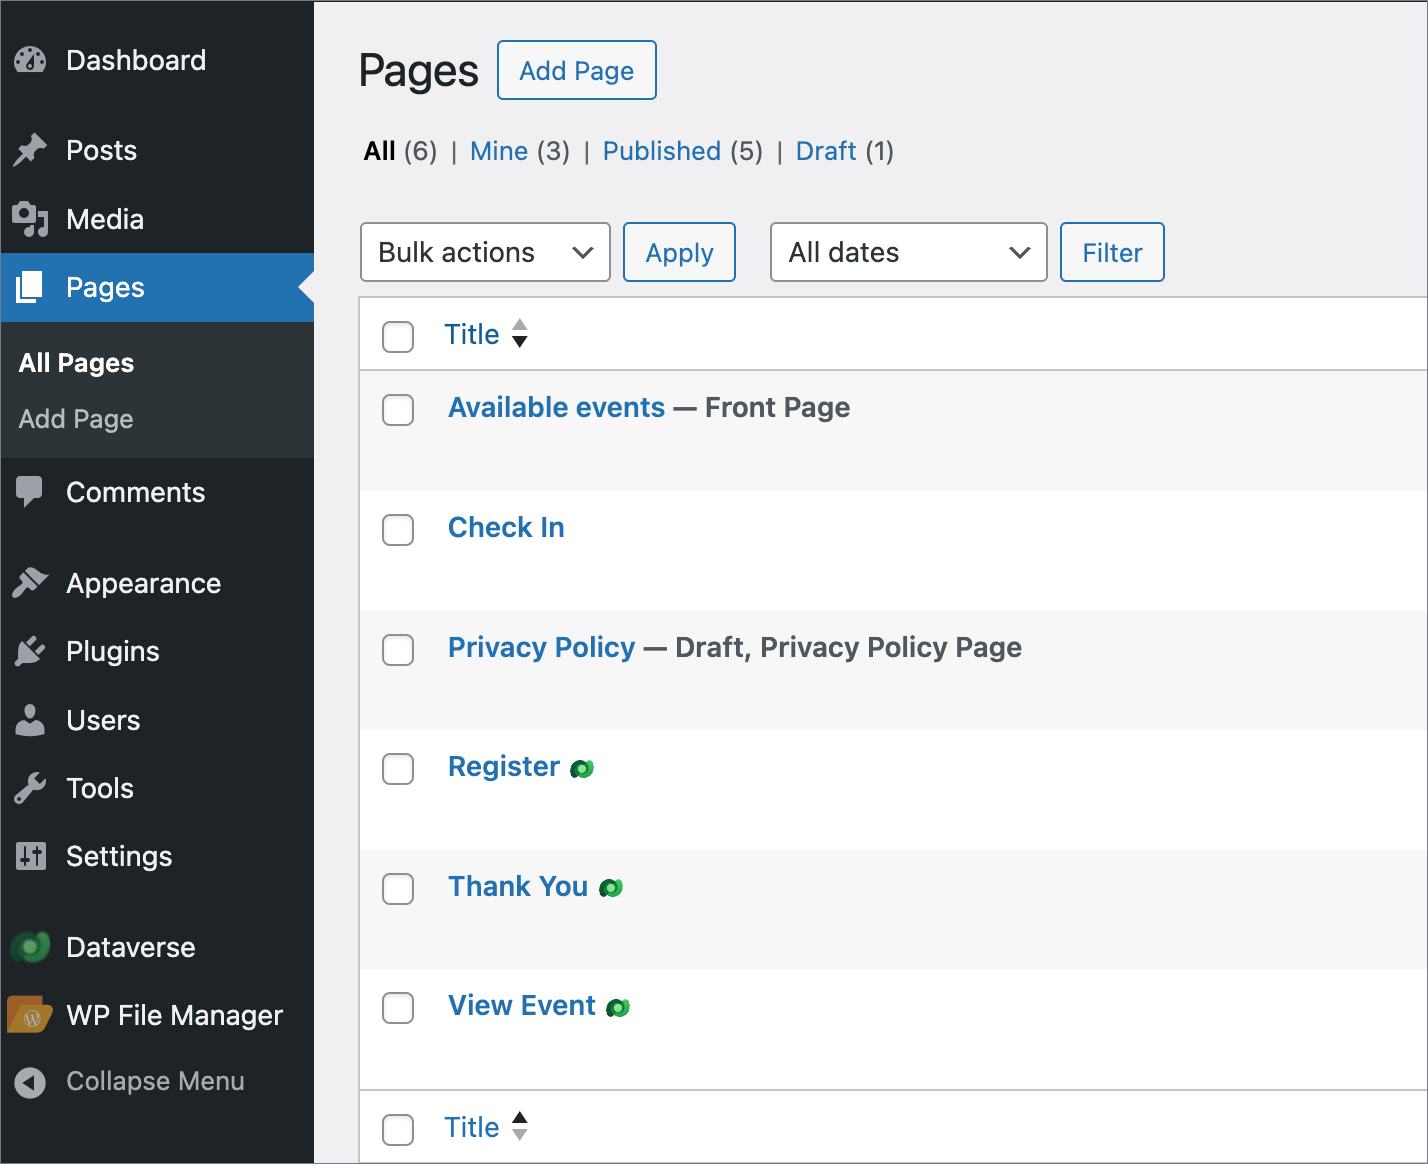
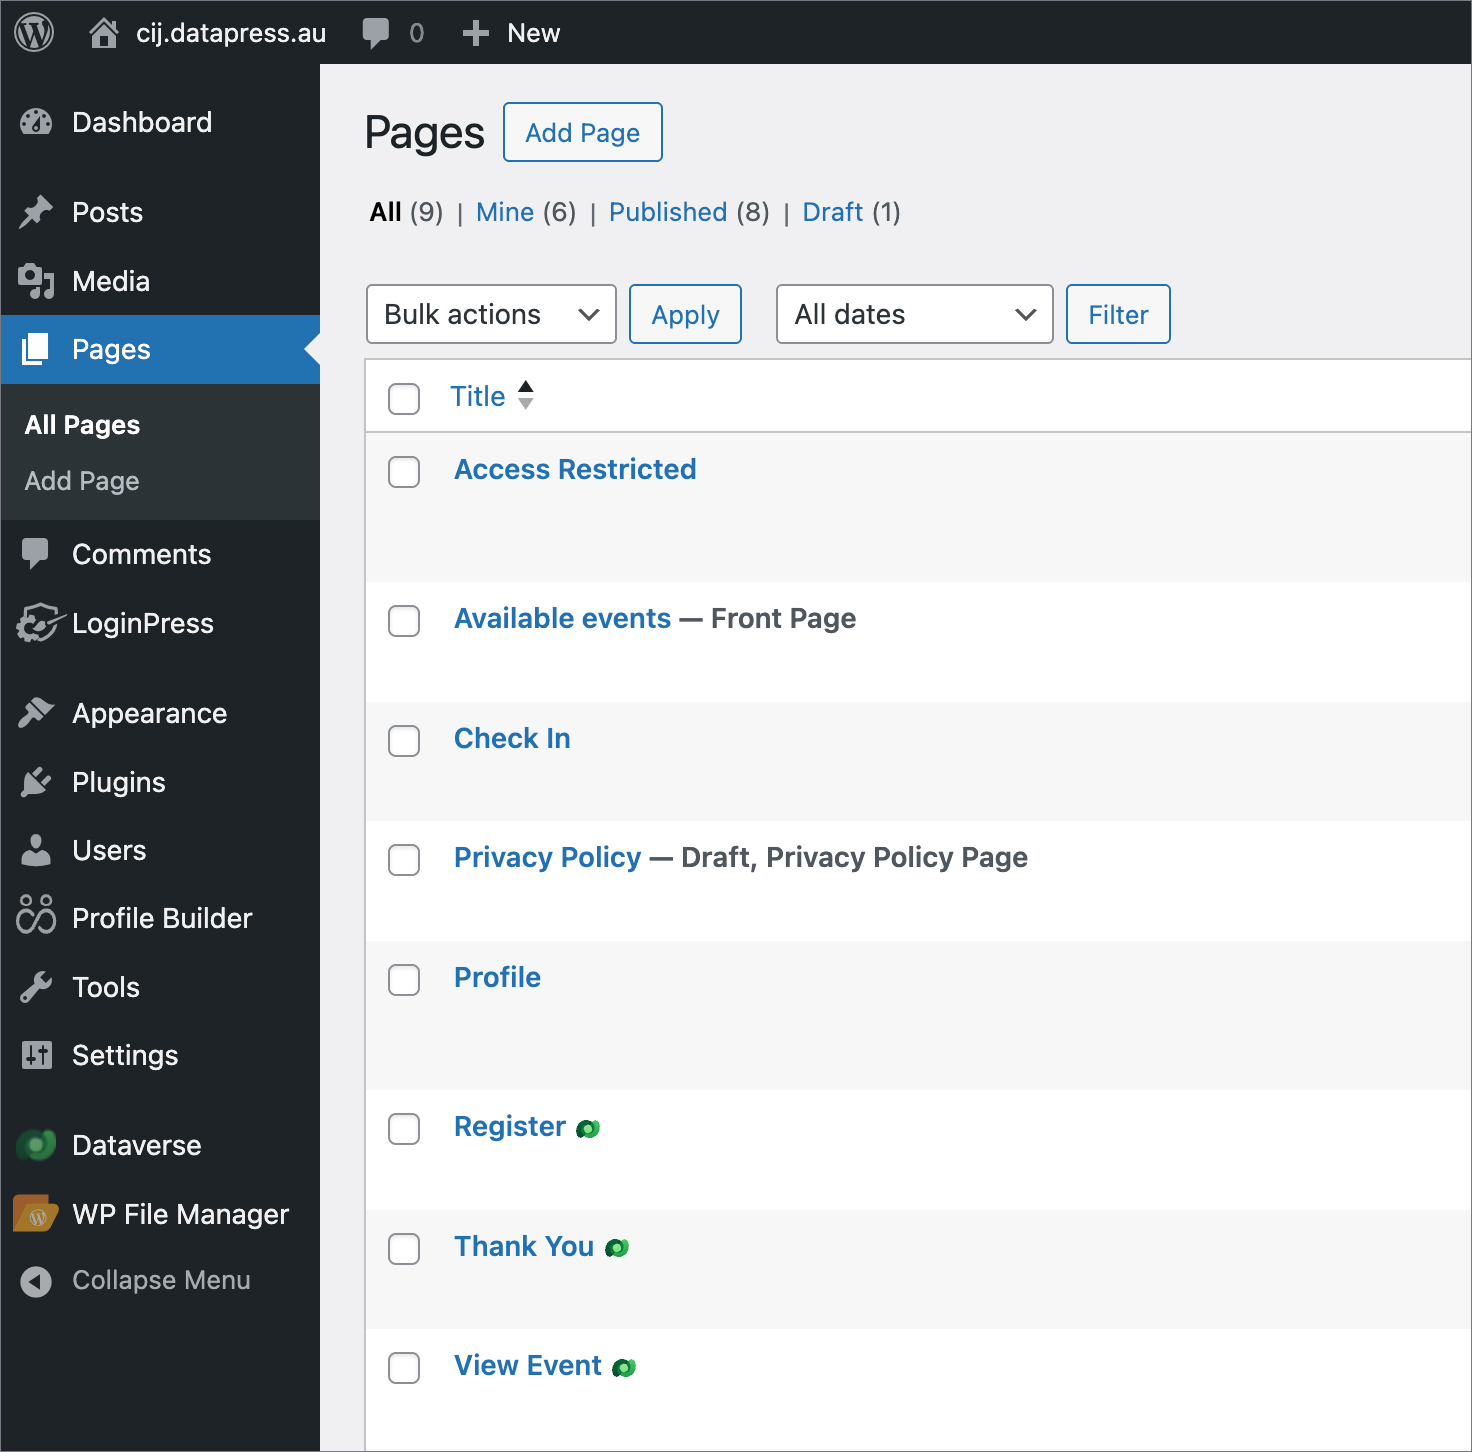
Added information about Access Restricted and Profile pages

diff --git a/datapress/Samples/Event Ticketing/install_wordpress_components.md b/datapress/Samples/Event Ticketing/install_wordpress_components.md
@@ -53,18 +53,40 @@ The twig templates are stored under Dataverse → Templates → Twig Templates.
 </div>
 
 ### WordPress Pages
-Add required pages **Available Events**, **Register** and **View Event**
+Add required pages **Access Restricted**, **Profile**, **Available Events**, **Register** and **View Event**
 
 <div class="text--center">
 <img src="/images/wp-pages.jpg" alt="WordPress Pages" width="600" />
 </div>
 
 Include twig templates using the next code.
- 
+
+In the **Access Restricted** page: 
+```twig
+{% include 'styles' %}
+```
+Then add Paragraph block and add text - 
+
+"Access Restricted" as a title.
+
+"We're sorry, but access to this area is limited to registered customers only.
+
+If you’re a customer, please log in to continue. If you believe you’ve received this message in error, feel free to contact our support team for assistance.
+
+Thank you for your understanding!"
+
+Add link to your login page on 'log in' words.
+
 In the **Available Events** page: 
 ```twig
 {% include 'styles' %}
 {% include 'page_list_events' %}
+```
+
+In the **Profile** page: 
+```twig
+{{ include('styles') }}
+{{ include('page_profile') }}
 ```
 
 In the **Register** page: 
@@ -89,7 +111,7 @@ In the **View Event** page:
 #### Page Binding
 When you hover over the page name, a menu appears where you should click **Configure Binding**.
 
-For the **Register** and **View Event** pages, set the parameters below and click Save afterward.
+For the **Register**, **Thank You**, and **View Event** pages, set the parameters below and click Save afterward.
 
 Settings:
 1. Choose an entity to bind to: 'Event (msevtmgt_event)'
